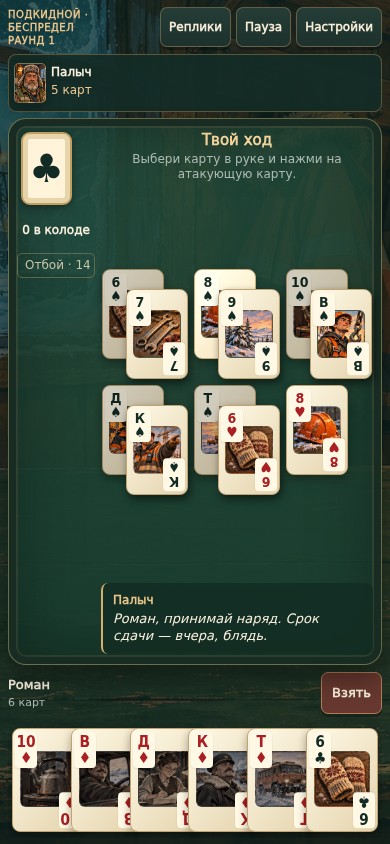
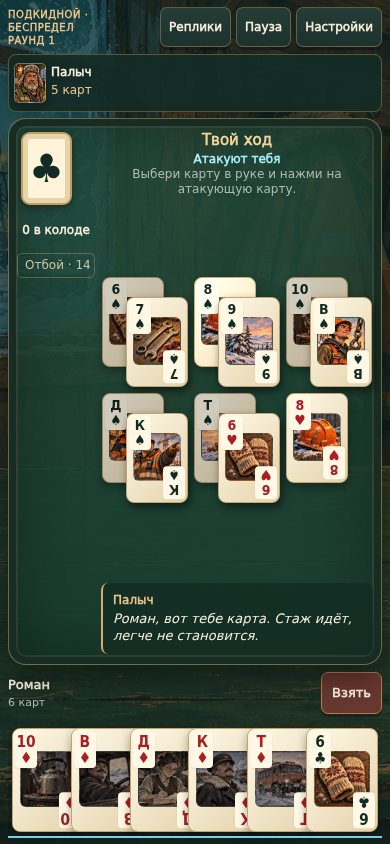
Identify the defender and attack target throughout each round

diff --git a/src/main.js b/src/main.js
@@ -225,11 +225,11 @@
       .slice(1)
       .map(
         (p, j) =>
-          `<article data-seat="${j + 1}" class="opponent ${G.actor === j + 1 ? "active" : ""} ${p.out ? "out" : ""}">${avatar(p.npc, emotion[j + 1] || 0)}<div><strong>${name(j + 1)}</strong><small>${role(j + 1)}</small><span class="hand-count">${p.hand.length} карт</span></div></article>`,
+          `<article data-seat="${j + 1}" class="opponent ${G.actor === j + 1 ? "active" : ""} ${p.out ? "out" : ""} ${G.defender === j + 1 ? "defending-player" : ""}">${avatar(p.npc, emotion[j + 1] || 0)}<div><strong>${name(j + 1)}</strong><small>${role(j + 1)}</small><span class="hand-count" aria-label="${role(j + 1)} · ${p.hand.length} карт">${G.defender === j + 1 ? (G.taking ? "Берёт" : "Бьётся") + " · " + p.hand.length : p.hand.length + " карт"}</span></div></article>`,
       )
       .join(
         "",
-      )}</div><section class="table-zone"><aside class="stocks"><div class="stock-pile">${E.stockCount(G) > 0 ? backCard() : ""}${E.stockCount(G) > 0 ? card(G.trumpCard, { classes: "trump-show" }) : `<div class="empty-trump ${G.trump === 1 || G.trump === 2 ? "red" : "black"}" role="img" aria-label="Козырная масть ${E.SUITS[G.trump]}"><span>${E.SUITS[G.trump]}</span></div>`}</div><strong>${E.stockCount(G)} в колоде</strong><div class="discard-target" aria-label="Отбой">Отбой · ${G.discard.length}</div></aside><div class="battle"><div class="turn-label"><strong>${nameRole}</strong><small>${paused ? "Партия на паузе" : G.phase === "defending" ? (G.actor === 0 ? "Выбери карту в руке и нажми на атакующую карту." : "Защита в процессе") : G.phase === "taking" ? "Подкидывание перед взятием" : G.phase === "adding" ? "Все атакующие могут подкинуть или завершить" : "Выбери карту и нажми «Ходить»"}</small></div><div class="pairs">${G.table.length ? G.table.map((pair, i) => `<div class="card-pair">${card(pair.attack, { action: G.actor === 0 && G.phase === "defending" && pair.defense == null ? "cover" : "", extra: `data-pair="${i}"`, classes: pair.defense == null ? "uncovered" : "covered" })}${pair.defense != null ? card(pair.defense, { classes: "defense-card" }) : ""}</div>`).join("") : `<div class="table-empty">${sprite("decor", 4, 4, 3, "table-emblem")}<span>Стол свободен</span><small>До ${G.limit} атакующих карт за раунд</small></div>`}</div><button data-action="talk" class="speech" aria-label="Прочитать реплику целиком" ${dialog ? "" : "hidden"}>${dialog ? avatar(G.players[dialog.who]?.npc ?? 0, emotion[dialog.who] || 0) : ""}<div><strong>${dialog ? name(dialog.who) : ""}</strong><p id="dialog-text"></p></div></button></div><aside class="table-log"><h3>Журнал смены</h3><ol id="game-log"></ol><span class="discard-count">В отбое: ${G.discard.length}<br>Списано эффектами: ${G.effectDiscard.length}</span></aside></section><section class="human-zone"><div class="human-caption">${avatar(P.avatar)}<div><strong>${playerName()}</strong><small>${my.hand.length} карт</small></div><div class="game-actions">${actionButtons}${take ? button("Взять", "take", "danger") : ""}${pass ? button(G.taking ? "Готово" : "Бито", "pass", "primary") : ""}${selected != null ? button("Рассмотреть", "inspect", "small") : ""}${my.out ? '<span class="finished-note">Ты вышел. Бригада доигрывает.</span>' : ""}</div></div><div class="hand" role="group" aria-label="Твои карты" style="--hand-count:${Math.max(6, hand.length)}">${hand.map((c) => card(c, { action: "select-card", selected: c === selected, classes: canAct && !moves.some((a) => a.card === c) ? "not-playable" : "" })).join("")}</div><p class="hand-help">${canAct ? (selected == null ? "Выбери карту. Подсвечены карты с разрешённым действием." : selectedMoves.some((a) => a.type === "defend") ? "Нажми на непокрытую карту на столе, которую хочешь побить." : selectedMoves.length ? "Подтверди действие кнопкой над рукой." : "Эта карта сейчас не подходит. Выбери другую.") : "Можно рассматривать свои карты, пока коллеги ходят."}</p></section></main>`;
+      )}</div><section class="table-zone"><aside class="stocks"><div class="stock-pile">${E.stockCount(G) > 0 ? backCard() : ""}${E.stockCount(G) > 0 ? card(G.trumpCard, { classes: "trump-show" }) : `<div class="empty-trump ${G.trump === 1 || G.trump === 2 ? "red" : "black"}" role="img" aria-label="Козырная масть ${E.SUITS[G.trump]}"><span>${E.SUITS[G.trump]}</span></div>`}</div><strong>${E.stockCount(G)} в колоде</strong><div class="discard-target" aria-label="Отбой">Отбой · ${G.discard.length}</div></aside><div class="battle"><div class="turn-label"><strong>${nameRole}<span class="defender-line">${G.defender === 0 ? (G.taking ? "Ты берёшь карты" : "Атакуют тебя") : (G.taking ? "Берёт: " : "Отбивается: ") + name(G.defender)}</span></strong><small>${paused ? "Партия на паузе" : G.phase === "defending" ? (G.actor === 0 ? "Выбери карту в руке и нажми на атакующую карту." : "Защита в процессе") : G.phase === "taking" ? "Подкидывание перед взятием" : G.phase === "adding" ? "Все атакующие могут подкинуть или завершить" : "Выбери карту и нажми «Ходить»"}</small></div><div class="pairs">${G.table.length ? G.table.map((pair, i) => `<div class="card-pair">${card(pair.attack, { action: G.actor === 0 && G.phase === "defending" && pair.defense == null ? "cover" : "", extra: `data-pair="${i}"`, classes: pair.defense == null ? "uncovered" : "covered" })}${pair.defense != null ? card(pair.defense, { classes: "defense-card" }) : ""}</div>`).join("") : `<div class="table-empty">${sprite("decor", 4, 4, 3, "table-emblem")}<span>Стол свободен</span><small>До ${G.limit} атакующих карт за раунд</small></div>`}</div><button data-action="talk" class="speech" aria-label="Прочитать реплику целиком" ${dialog ? "" : "hidden"}>${dialog ? avatar(G.players[dialog.who]?.npc ?? 0, emotion[dialog.who] || 0) : ""}<div><strong>${dialog ? name(dialog.who) : ""}</strong><p id="dialog-text"></p></div></button></div><aside class="table-log"><h3>Журнал смены</h3><ol id="game-log"></ol><span class="discard-count">В отбое: ${G.discard.length}<br>Списано эффектами: ${G.effectDiscard.length}</span></aside></section><section class="human-zone ${G.defender === 0 ? "defending-player" : ""}"><div class="human-caption">${avatar(P.avatar)}<div><strong>${playerName()}</strong><small>${my.hand.length} карт</small></div><div class="game-actions">${actionButtons}${take ? button("Взять", "take", "danger") : ""}${pass ? button(G.taking ? "Готово" : "Бито", "pass", "primary") : ""}${selected != null ? button("Рассмотреть", "inspect", "small") : ""}${my.out ? '<span class="finished-note">Ты вышел. Бригада доигрывает.</span>' : ""}</div></div><div class="hand" role="group" aria-label="Твои карты" style="--hand-count:${Math.max(6, hand.length)}">${hand.map((c) => card(c, { action: "select-card", selected: c === selected, classes: canAct && !moves.some((a) => a.card === c) ? "not-playable" : "" })).join("")}</div><p class="hand-help">${canAct ? (selected == null ? "Выбери карту. Подсвечены карты с разрешённым действием." : selectedMoves.some((a) => a.type === "defend") ? "Нажми на непокрытую карту на столе, которую хочешь побить." : selectedMoves.length ? "Подтверди действие кнопкой над рукой." : "Эта карта сейчас не подходит. Выбери другую.") : "Можно рассматривать свои карты, пока коллеги ходят."}</p></section></main>`;
   }
   function eventView() {
     const v = F.spec(G);
@@ -451,6 +451,8 @@
   }
   function layoutPairs(pairs, count) {
     if (!count) return;
+    pairs.style.display = "block";
+    if (pairs.closest(".battle")) pairs.style.position = "relative";
     const style = getComputedStyle(pairs);
     const gapX = parseFloat(style.columnGap) || 0;
     const gapY = parseFloat(style.rowGap) || 0;
@@ -505,6 +507,13 @@
       const left =
         (pairs.clientWidth - (inRow * pairWidth + (inRow - 1) * gapX)) / 2;
       Object.assign(pair.style, {
+        position: "absolute",
+        boxSizing: "border-box",
+        padding: "0",
+        minHeight: "0",
+        maxHeight: pairHeight + "px",
+        minWidth: "0",
+        maxWidth: pairWidth + "px",
         width: pairWidth + "px",
         height: pairHeight + "px",
         left: left + col * (pairWidth + gapX) + "px",

diff --git a/src/styles/viewport.css b/src/styles/viewport.css
@@ -2232,3 +2232,8 @@ html {
 .pairs > .card-pair {
   position: absolute;
 }
+/* The defender remains distinct from the participant currently making a move. */
+.opponent.defending-player { border-color:#77d2e7; box-shadow:inset 0 0 0 1px #77d2e7; }
+.opponent.defending-player .hand-count { color:#a6edfa; font-weight:700; white-space:nowrap; font-size:11px; }
+.defender-line { display:block; color:#a6edfa; font-size:12px; line-height:15px; font-weight:600; }
+.human-zone.defending-player .hand { border-bottom:2px solid #77d2e7; }

diff --git a/README.md b/README.md
@@ -138,3 +138,8 @@ Playgama/Yandex и любые публикационные интеграции 
 Сообщение занимает собственную строку; убрано появление со сдвигом за край стола. Размеры пар рассчитываются по свободной области после заполнения текста и обновляются при изменении размеров руки/стола. Расчёт координат общий для основной отрисовки и полёта новой карты. На низком альбомном экране зарезервировано место для кнопок; подпись игрока не меняет высоту при выборе карты.
 
 `npm run test:table`: реальные ходы NPC и их реплики с одной/шестью парами на восьми размерах окна; отсутствие пересечений карт, сообщений и отбоя, отсутствие прокрутки и старых подписей. Отдельно проверяются применение события скрытой колоды через настоящий UI и приземление новой карты при появлении второго ряда. Скриншоты `table-clean-*` получены из контролируемых карточных состояний после хода бота. Реальные Android-устройства отдельно не проверялись.
+
+
+## Версия 1.4.2: видно, кто защищается
+
+На столе постоянно указана цель атаки: «Отбивается: имя» либо «Атакуют тебя». У защищающегося NPC голубая рамка и текст «Бьётся», при взятии — «Берёт». При переводе цель и выделение обновляются по фактическому защитнику в правилах. Собственная рука выделяется, когда защищается игрок.
